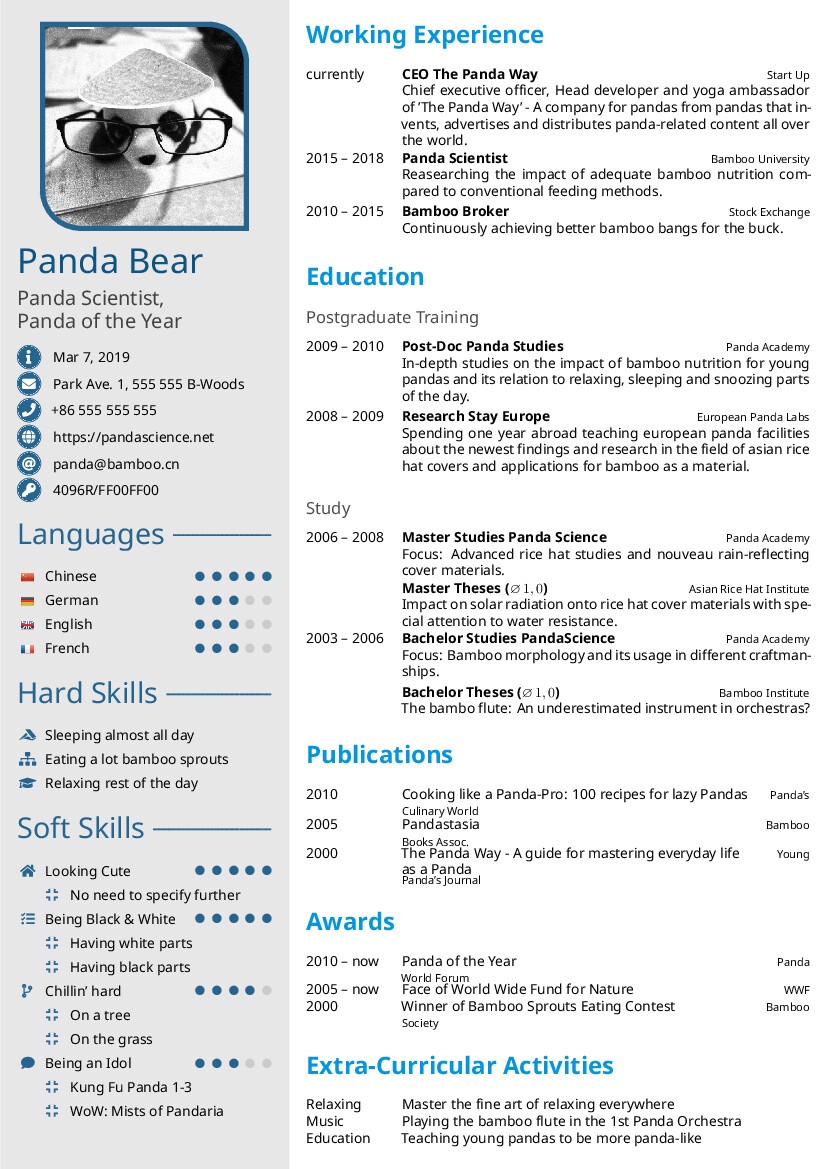
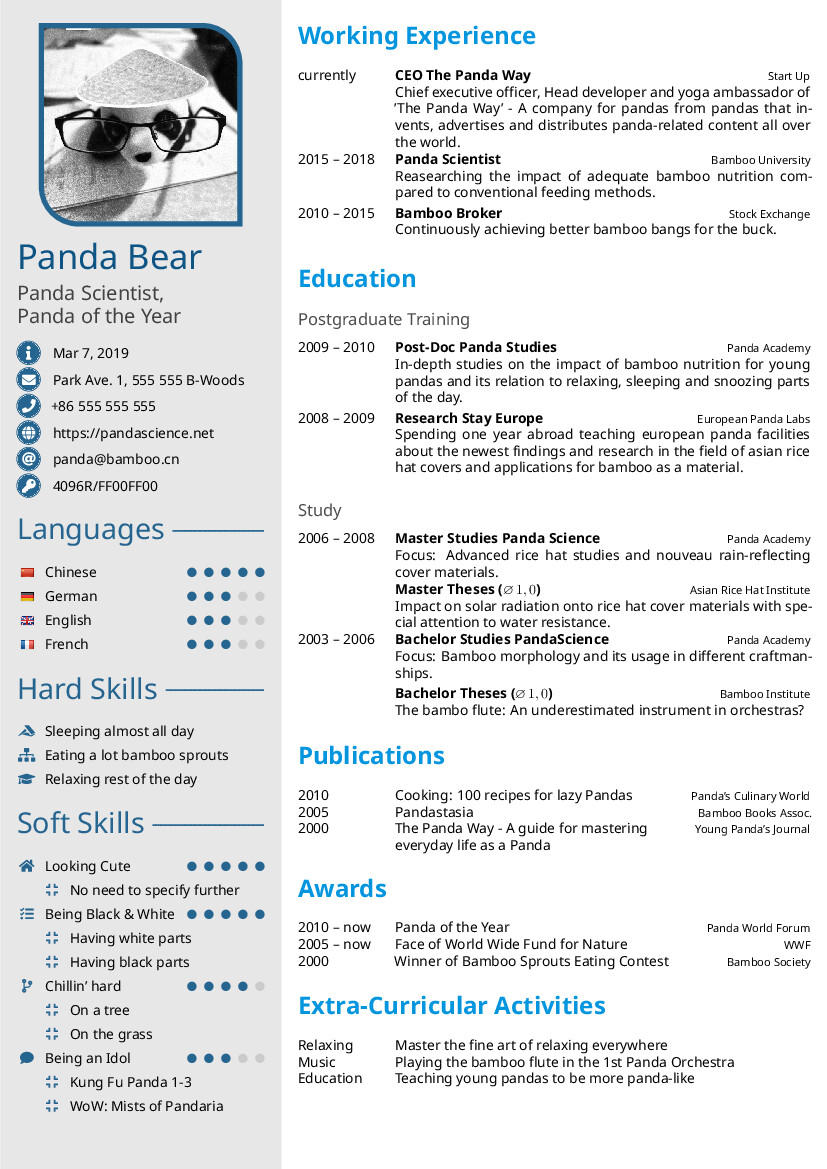
Add class options, fix minor issues

diff --git a/template.tex b/template.tex
@@ -13,11 +13,16 @@
 %-------------------------------------------------------------------------------
 %                             ADDITIONAL PACKAGES														 
 %-------------------------------------------------------------------------------
-% show sidebar and page margins
-% \PassOptionsToPackage{showframe}{geometry}
-% \PassOptionsToPackage{showboxes}{textpos}
-
-\documentclass[a4paper, 10pt, showframes]{fortysecondscv}
+\documentclass[
+  a4paper, 
+%   showframes,
+%   maincolor=cvgreen,
+%   sectioncolor=red,
+%   subsectioncolor=orange
+%   sidebarwidth=0.4\paperwidth,
+%   topbottommargin=0.03\paperheight,
+%   leftrightmargin=20pt
+]{fortysecondscv}
 
 % improve word spacing and hyphenation
 \usepackage{microtype}
@@ -72,7 +77,7 @@
 % email address
 \cvmail{panda@bamboo.cn}
 % pgp key
-\cvkey{4096R/FF00FF00}{0xABCDEFGGIJKLMNOP}
+\cvkey{4096R/FF00FF00}{0xAABBCCDDFF00FF00}
 % add additional information
 % \newcommand{\additional}{some more?}
 
@@ -120,7 +125,7 @@
 		\pointskill{\faCodeBranch}{Chillin' hard}{4}
  			\skill[1.8em]{\faCompress}{On a tree}
  			\skill[1.8em]{\faCompress}{On the grass}
-			\pointskill{\faComment}{Being an Idol}{3}
+		\pointskill{\faComment}{Being an Idol}{3}
  			\skill[1.8em]{\faCompress}{Kung Fu Panda 1-3}
  			\skill[1.8em]{\faCompress}{WoW: Mists of Pandaria}
 }
@@ -225,7 +230,7 @@
 
 \cvsection{Publications}
 \begin{cvtable}
-	\cvitem{2010}{Cooking like a Panda-Pro: 100 recipes for lazy Pandas}{Panda's
+	\cvitem{2010}{Cooking: 100 recipes for lazy Pandas}{Panda's
 	Culinary World}{}
 	\cvitem{2005}{Pandastasia}{Bamboo Books Assoc.}{}
 	\cvitem{2000}{The Panda Way - A guide for mastering everyday life as a Panda}
